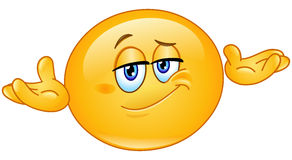
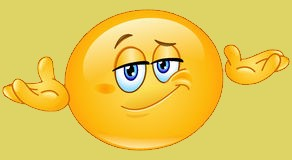
with float

diff --git a/styles/style.css b/styles/style.css
@@ -1,73 +1,79 @@
-.header{
-    border: 2px solid blue;
-}
-.last{
-    clear: both;
-}
-.left-column{
-    float: left;
-    width: 30%;
-}
-.right-column{
-    float: right;
-    width: 70%;
-}
-.nameschool {
-    color: blue;
-    font-size: 20px;
+.header {
+    border-bottom: 2px solid rgb(0, 0, 0);
+    text-align: center;
+    color: rgb(223, 11, 11);
+    text-shadow: 5px 5px 10px #ffffff;
+    font-size: 50px;
     letter-spacing: 2px;
-    font-weight: bolder;
+    font-style: oblique;
 }
 
-html {
-    background-color: #ffffff;
+.last {
+    clear: both;
+    text-align: left;
 }
+
+.left-column {
+    display: block;
+    float: left;
+    width: 240px;
+    height: 320px;
+}
+
+.right-column {
+    display: block;
+    float: right;
+    width: 83%;
+}
+
+.nameschool {
+    font-size: 25px;
+    font-style: italic;
+    font-weight: bolder;
+    letter-spacing: 2px;
+    color: rgb(230, 5, 5);
+}
+
 
 body {
     font-family: Arial, Helvetica, sans-serif;
+    background-image: url(/images//back.jpg);
+    background-size: cover;
 }
 
-h1 {
-    text-align: center;
-    color: red;
-    font-size: 50px;
-    border: gold;
-    letter-spacing: 2px;
-}
-
-.p1 {
-    color: rgb(0, 0, 0);
-    font-size: 12px;
+.p1{
+    color: black;
+    font-size: 20px;
     margin-top: 0;
 }
 
-li {
-    font-size: 14px;
-    color: lawngreen;
-    font-style: italic;
-    line-height: 2;
-}
+    .p2 {
+        color: rgb(0, 0, 0);
+        font-size: 20px;
+    }
 
-img[data-smile-image] {
-    width: 50px;
-}
+    .p3 {
+        color: rgb(0, 0, 0);
+        font-size: 20px;
+    }
 
-.p2 {
-    color: rgb(0, 0, 0);
-    font-size: 12px;
-}
+    .p4 {
+        color: rgb(0, 0, 0);
+        font-size: 20px;
+    }
 
-.p3 {
-    color: rgb(0, 0, 0);
-    font-size: 12px;
-}
+    .p5 {
+        color: rgb(0, 0, 0);
+        font-size: 20px;
+    }
 
-.p4 {
-    color: rgb(0, 0, 0);
-    font-size: 12px;
-}
+    li{
+        font-size: 20px;
+        color: brown;
+        font-style: italic;
+        line-height: 1;
+    }
 
-.p5 {
-    color: rgb(0, 0, 0);
-    font-size: 12px;
-}
+    img[data-smile-image]{
+        width: 70px;
+    }

diff --git a/biography.html b/biography.html
@@ -11,7 +11,7 @@
     <h1 class="header">
         История моей жизни
     </h1>
-    <div class="left-column">
+    <div class="left-column sized">
         <img src="images/harry.jpeg" alt="my photo">
     </div>
     <div class="right-column">
